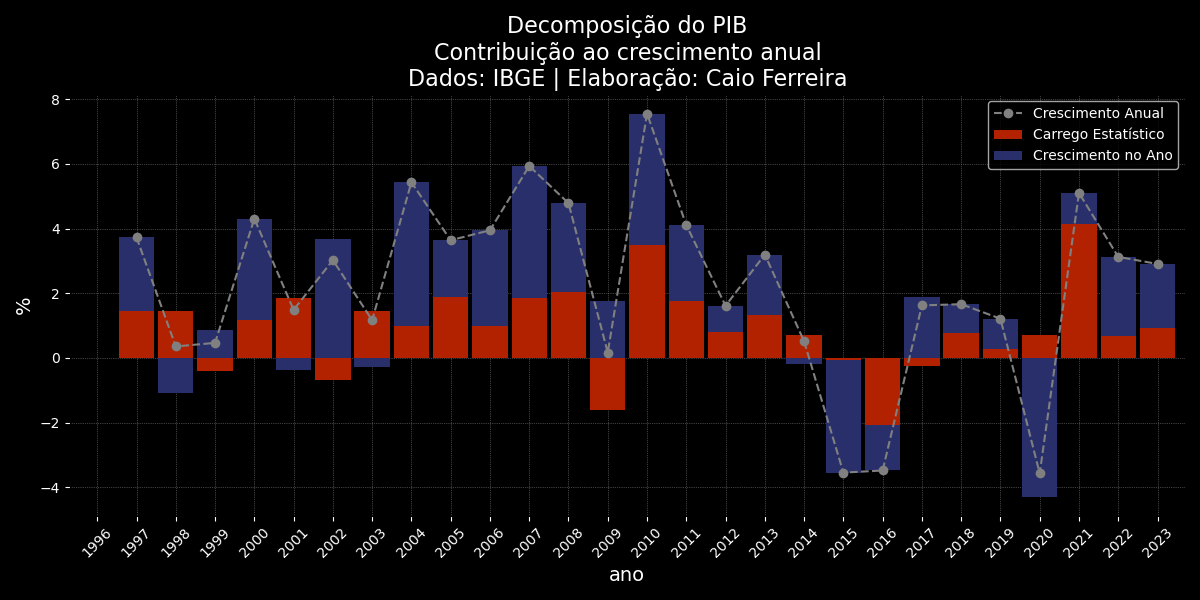
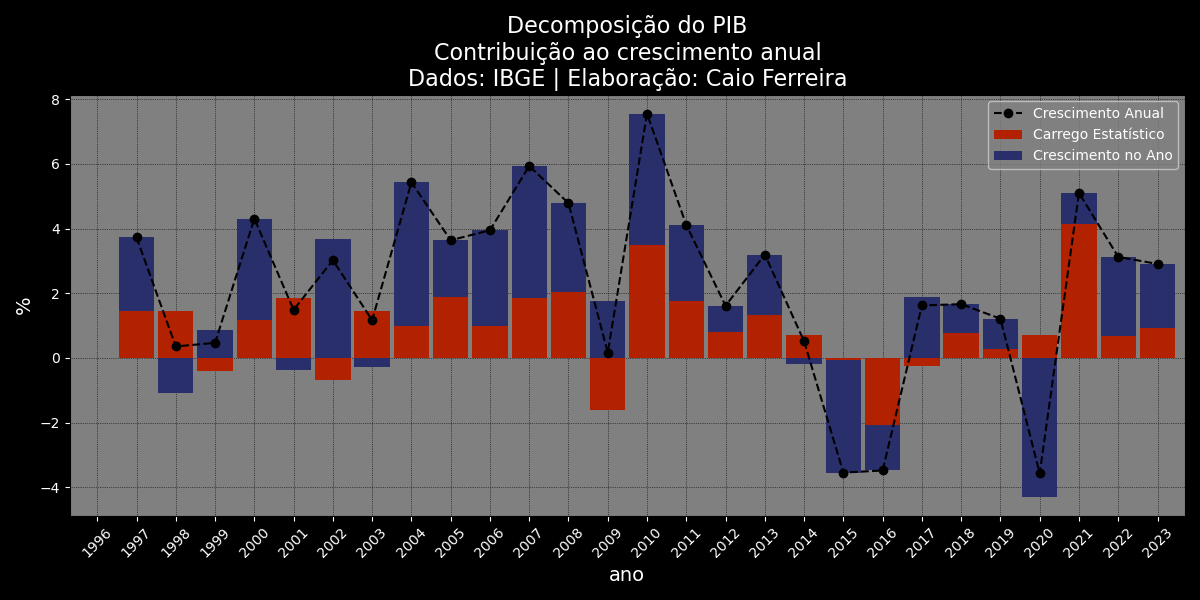
Uptade

diff --git a/PIB_crescimento.py b/PIB_crescimento.py
@@ -12,10 +12,10 @@ plt.rcParams['axes.titlecolor'] = 'w'
 plt.rcParams['axes.labelsize'] = 14 
 plt.rcParams['axes.labelcolor'] = 'w'
 plt.rcParams['figure.facecolor'] = 'black'
-plt.rcParams['axes.facecolor'] = 'black'
+plt.rcParams['axes.facecolor'] = 'gray'
 plt.rcParams['xtick.color'] = 'w'
 plt.rcParams['ytick.color'] = 'w'
-plt.rcParams['grid.color'] = 'gray'
+plt.rcParams['grid.color'] = 'black'
 plt.rcParams['grid.linestyle'] = ':'
 plt.rcParams['grid.linewidth'] = 0.5 
 plt.rcParams['axes.autolimit_mode'] = 'data'
@@ -206,7 +206,7 @@ decomposicao = (
 fig_decomposicao = decomposicao[['ano', 'Crescimento Anual']].plot(
     x='ano',
     linestyle = "dashed",
-    color = 'gray',
+    color = 'black',
     marker = "o",
     use_index = False,
 
